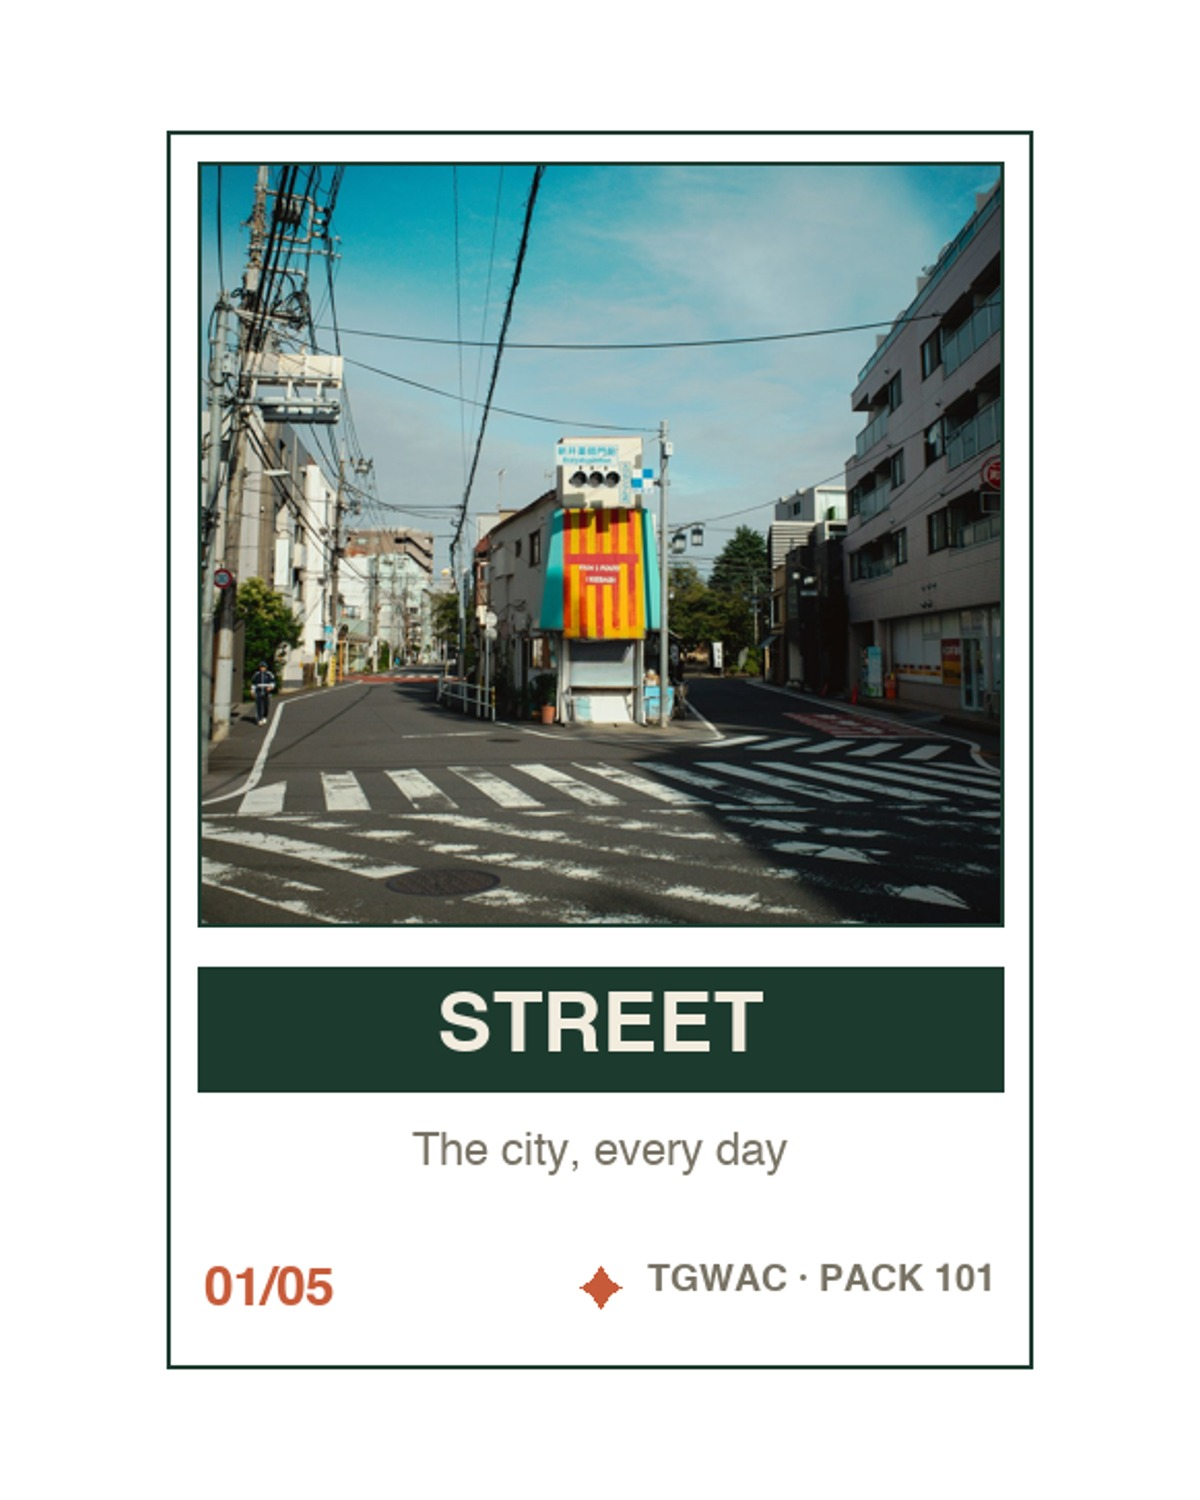
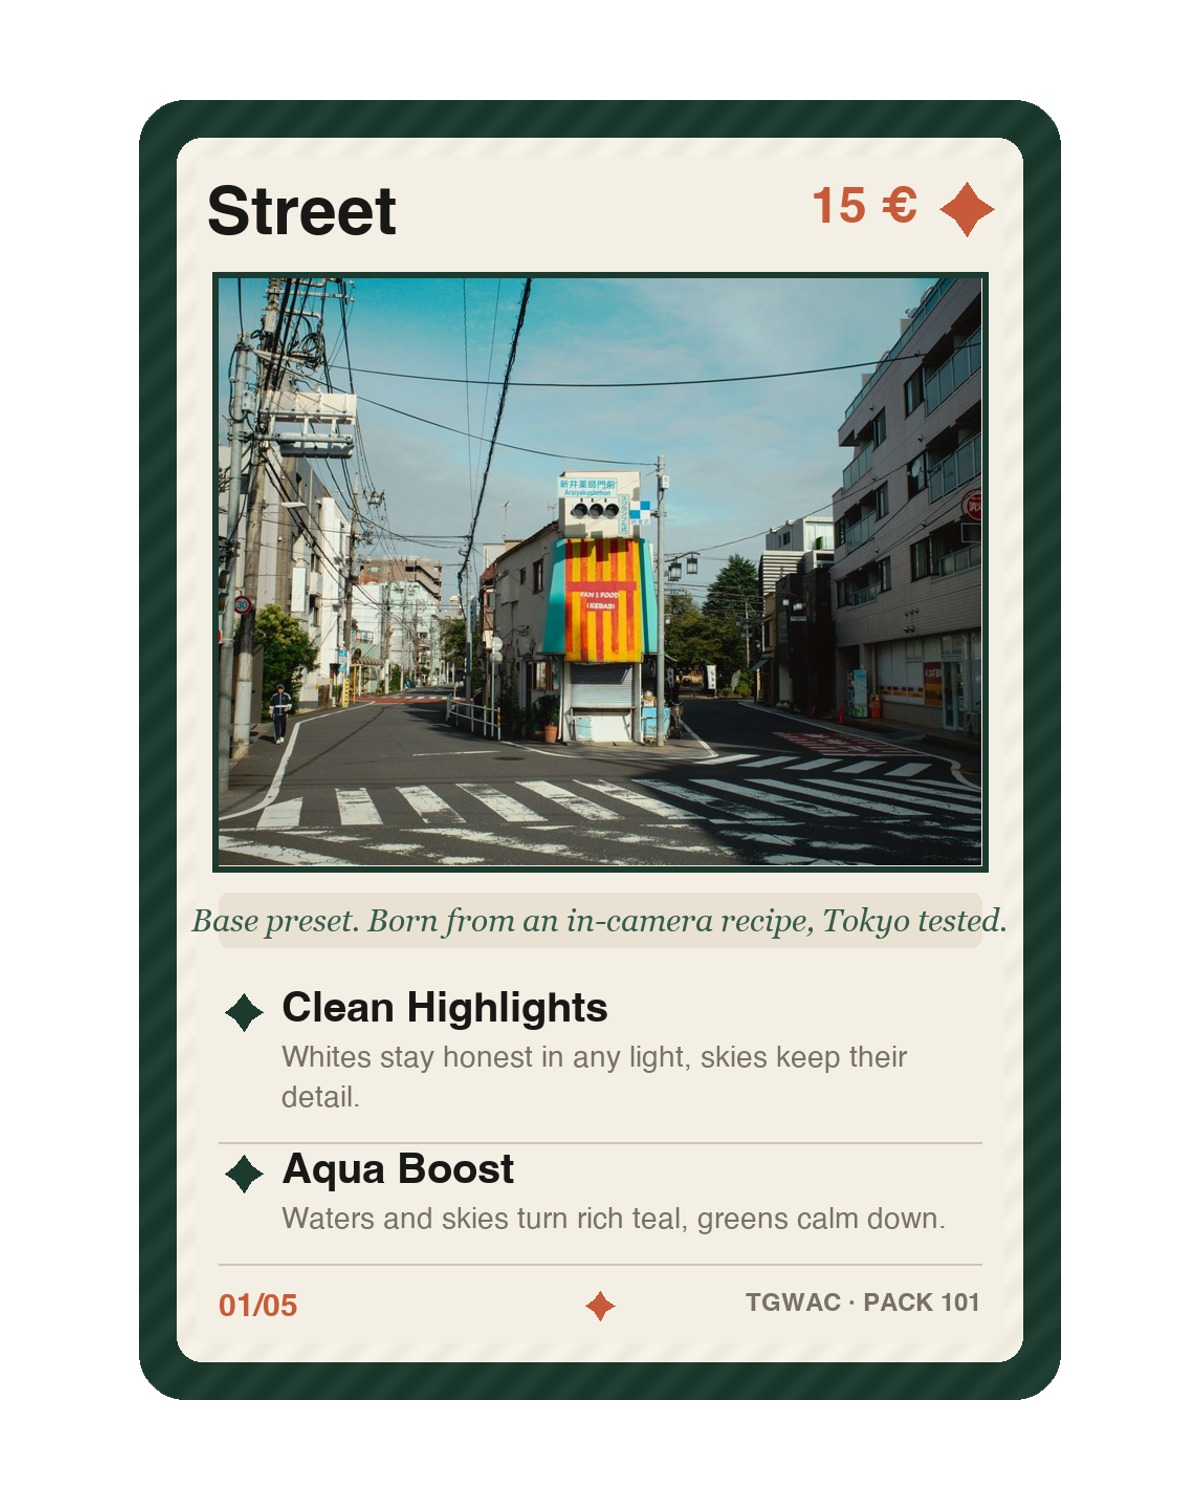
Store: cartes facon Pokemon, sliders 4 colonnes, licence usage perso
- Generateur tools/cards_pack101.py : cartes avec cadre texture, bandeau
  nom + prix, fenetre photo, ligne flavor, deux attaques, pied rarete
- /store/street.jpg et pack-101-contents.jpg regeneres
- Pack 101 : les 4 sliders tiennent sur une ligne (2 colonnes mobile),
  variante compacte de BeforeAfter (poignee et pastilles reduites)
- Hint avant/apres corrige (brute a gauche, preset a droite)
- Licence passee en usage personnel uniquement (buy notes des 2 fiches)

diff --git a/app/[lang]/store/pack-101/page.tsx b/app/[lang]/store/pack-101/page.tsx
@@ -1,6 +1,6 @@
 import type { Metadata } from "next";
 import Script from "next/script";
-import { Eyebrow, Display, PageHead, Section } from "../../components/editorial";
+import { Eyebrow, Display, PageHead } from "../../components/editorial";
 import { pageMeta } from "@/lib/seo";
 import BeforeAfter from "./BeforeAfter";
 import s from "./presets.module.css";
@@ -35,8 +35,8 @@ const content = {
       "Mon rendu, enfin en presets. Quatre looks construits sur ma vraie recette boîtier, un preset par situation, pour Lightroom desktop et mobile.",
     meta: ["4 presets Lightroom", "Desktop & mobile", PRICE],
     buy: `Acheter le pack · ${PRICE}`,
-    buyNote: "Téléchargement immédiat · guide d’installation FR/EN · licence commerciale incluse",
-    hint: "Glisse la ligne sur chaque photo : à gauche le preset, à droite la photo brute.",
+    buyNote: "Téléchargement immédiat · guide d’installation FR/EN · usage personnel",
+    hint: "Glisse la ligne sur chaque photo : à gauche la photo brute, à droite le preset.",
     before: "Avant",
     outro: "Une question avant d’acheter ?",
     outroCta: "Écris-moi",
@@ -48,8 +48,8 @@ const content = {
       "My look, finally as presets. Four looks built on my actual in-camera recipe, one preset per situation, for Lightroom desktop & mobile.",
     meta: ["4 Lightroom presets", "Desktop & mobile", PRICE],
     buy: `Buy the pack · ${PRICE}`,
-    buyNote: "Instant download · install guide EN/FR · commercial license included",
-    hint: "Drag the line on each photo: preset on the left, straight-out-of-camera on the right.",
+    buyNote: "Instant download · install guide EN/FR · personal use license",
+    hint: "Drag the line on each photo: straight-out-of-camera on the left, preset on the right.",
     before: "Before",
     outro: "A question before buying?",
     outroCta: "Write me",
@@ -109,9 +109,9 @@ export default async function PresetsPage({ params }: Props) {
 
         <div className={s.presetList}>
           {PRESETS.map((p) => (
-            <Section key={p.key}>
+            <div key={p.key}>
               <div className={s.presetHead}>
-                <Display size="m" as="h2">{p.name}</Display>
+                <h2 className={s.presetName}>{p.name}</h2>
                 <span className={s.presetUsage}>{p.usage[lang]}</span>
               </div>
               <BeforeAfter
@@ -119,8 +119,9 @@ export default async function PresetsPage({ params }: Props) {
                 after={`/presets101/${p.key}-after.jpg`}
                 name={p.name}
                 beforeLabel={t.before}
+                compact
               />
-            </Section>
+            </div>
           ))}
         </div>
 

diff --git a/app/[lang]/store/pack-101/presets.module.css b/app/[lang]/store/pack-101/presets.module.css
@@ -29,24 +29,31 @@
 
 .presetList {
   display: grid;
-  gap: 72px;
-  margin-top: 72px;
+  grid-template-columns: repeat(4, minmax(0, 1fr));
+  gap: 24px;
+  margin-top: 56px;
 }
 
 .presetHead {
-  display: flex;
-  align-items: baseline;
-  justify-content: space-between;
-  gap: 16px;
-  margin-bottom: 14px;
+  display: grid;
+  gap: 4px;
+  margin-bottom: 12px;
   border-top: 1px solid var(--line);
-  padding-top: 18px;
+  padding-top: 14px;
+}
+
+.presetName {
+  font-family: var(--font-serif, Georgia), serif;
+  font-size: 22px;
+  font-weight: 400;
+  color: var(--ink);
+  margin: 0;
 }
 
 .presetUsage {
   font-family: var(--font-inter, Inter), system-ui, sans-serif;
   font-size: 11px;
-  letter-spacing: 0.18em;
+  letter-spacing: 0.14em;
   text-transform: uppercase;
   color: var(--stone);
 }
@@ -74,7 +81,17 @@
   }
 
   .presetList {
-    gap: 48px;
-    margin-top: 48px;
+    grid-template-columns: repeat(2, minmax(0, 1fr));
+    gap: 20px;
+    margin-top: 40px;
+  }
+
+  .presetName {
+    font-size: 18px;
+  }
+
+  .presetUsage {
+    font-size: 10px;
+    letter-spacing: 0.1em;
   }
 }

diff --git a/app/[lang]/store/pack-101/BeforeAfter.tsx b/app/[lang]/store/pack-101/BeforeAfter.tsx
@@ -8,11 +8,13 @@ interface Props {
   after: string;
   name: string;
   beforeLabel: string;
+  compact?: boolean;
 }
 
 // Avant/apres dont la ligne suit la souris (ou le doigt) : a gauche de la
-// ligne la photo brute, a droite le preset applique.
-export default function BeforeAfter({ before, after, name, beforeLabel }: Props) {
+// ligne la photo brute, a droite le preset applique. `compact` reduit
+// poignee et pastilles pour les petites vignettes en grille.
+export default function BeforeAfter({ before, after, name, beforeLabel, compact }: Props) {
   const ref = useRef<HTMLDivElement>(null);
   const [pos, setPos] = useState(50);
 
@@ -27,7 +29,7 @@ export default function BeforeAfter({ before, after, name, beforeLabel }: Props)
   return (
     <div
       ref={ref}
-      className={s.wrap}
+      className={compact ? `${s.wrap} ${s.compact}` : s.wrap}
       onPointerMove={(e) => e.pointerType !== 'touch' && move(e.clientX)}
       onTouchMove={(e) => move(e.touches[0].clientX)}
       onTouchStart={(e) => move(e.touches[0].clientX)}

diff --git a/app/[lang]/store/pack-101/BeforeAfter.module.css b/app/[lang]/store/pack-101/BeforeAfter.module.css
@@ -70,3 +70,29 @@
   background: var(--ink);
   color: var(--paper);
 }
+
+/* Variante compacte : vignettes en grille 4 colonnes. */
+.compact .knob {
+  width: 26px;
+  height: 26px;
+}
+
+.compact .knob svg {
+  width: 14px;
+  height: 7px;
+}
+
+.compact .chip {
+  font-size: 8px;
+  letter-spacing: 0.1em;
+  padding: 3px 6px;
+  bottom: 8px;
+}
+
+.compact .chipLeft {
+  left: 8px;
+}
+
+.compact .chipRight {
+  right: 8px;
+}

diff --git a/tools/cards_pack101.py b/tools/cards_pack101.py
@@ -1,0 +1,193 @@
+# Cartes "facon Pokemon" du Pack 101 : cadre vert arrondi, bandeau nom,
+# fenetre d'illustration, ligne Pokedex, deux attaques, pied avec rarete.
+# Produit : /tmp/cards2/card-*.png (880x1240), public/store/street.jpg,
+# et le composite public/store/pack-101-contents.jpg (sachet + eventail).
+import numpy as np
+import os
+from PIL import Image, ImageDraw, ImageFont, ImageFilter
+
+ROOT = os.path.dirname(os.path.dirname(os.path.abspath(__file__)))
+OUT = '/tmp/cards2'
+os.makedirs(OUT, exist_ok=True)
+
+CREAM = (244, 239, 228)
+GREEN = (29, 58, 47)
+GREEN_SOFT = (56, 92, 76)
+TERRA = (199, 91, 57)
+STONE = (120, 114, 100)
+INK = (24, 24, 22)
+GOLDLINE = (205, 198, 182)
+
+HELV = '/System/Library/Fonts/Helvetica.ttc'
+GEO = '/System/Library/Fonts/Supplemental/Georgia Italic.ttf'
+F = lambda s, i=0: ImageFont.truetype(HELV, s, index=i)
+FG = lambda s: ImageFont.truetype(GEO, s)
+
+CW, CH = 880, 1240
+R = 44  # rayon des coins
+
+def rounded_mask(w, h, r):
+    m = Image.new('L', (w, h), 0)
+    ImageDraw.Draw(m).rounded_rectangle([0, 0, w-1, h-1], radius=r, fill=255)
+    return m
+
+def wrap(d, x, y, text, font, fill, maxw, lh):
+    words = text.split(' ')
+    line = ''
+    for w_ in words:
+        t = (line + ' ' + w_).strip()
+        if d.textlength(t, font=font) > maxw and line:
+            d.text((x, y), line, font=font, fill=fill); y += lh; line = w_
+        else:
+            line = t
+    if line:
+        d.text((x, y), line, font=font, fill=fill); y += lh
+    return y
+
+def diamond(d, cx, cy, r1, fill):
+    r2 = r1 * 0.4
+    d.polygon([(cx, cy-r1), (cx+r2, cy-r2), (cx+r1, cy), (cx+r2, cy+r2),
+               (cx, cy+r1), (cx-r2, cy+r2), (cx-r1, cy), (cx-r2, cy-r2)], fill=fill)
+
+def texture_border(card):
+    # leger grain raye dans le cadre vert, facon holo discret
+    a = np.array(card).astype(float)
+    h, w = a.shape[:2]
+    yy, xx = np.mgrid[0:h, 0:w]
+    tex = 5 * np.sin((xx + yy) / 7.0)
+    mask = np.zeros((h, w), bool)
+    B = 36
+    mask[:B+18, :] = True; mask[-(B+18):, :] = True
+    mask[:, :B+18] = True; mask[:, -(B+18):] = True
+    a[mask] = np.clip(a[mask] + tex[mask][:, None], 0, 255)
+    return Image.fromarray(a.astype(np.uint8))
+
+def make_card(img_path, name, flavor, atk1, atk2, num, price):
+    card = Image.new('RGB', (CW, CH), GREEN)
+    d = ImageDraw.Draw(card)
+    # interieur creme
+    d.rounded_rectangle([36, 36, CW-37, CH-37], radius=24, fill=CREAM)
+    # bandeau nom
+    d.text((64, 78), name, font=F(64, 1), fill=INK)
+    # pastille prix facon PV
+    if price:
+        d.text((CW-136, 104), price, font=F(48, 1), fill=TERRA, anchor='rm')
+    diamond(d, CW-90, 104, 26, TERRA)
+    # fenetre d'illustration
+    ix, iy, iw, ih = 76, 170, CW-152, 560
+    im = Image.open(img_path).convert('RGB')
+    r_ = im.width / im.height
+    if r_ > iw / ih:
+        nw = int(im.height * iw / ih); im = im.crop(((im.width-nw)//2, 0, (im.width+nw)//2, im.height))
+    else:
+        nh = int(im.width * ih / iw); im = im.crop((0, (im.height-nh)//2, im.width, (im.height-nh)//2+nh))
+    card.paste(im.resize((iw, ih)), (ix, iy))
+    d.rectangle([ix-6, iy-6, ix+iw+6, iy+ih+6], outline=GREEN, width=6)
+    # ligne pokedex
+    d.rounded_rectangle([76, iy+ih+26, CW-76, iy+ih+78], radius=10, fill=(233, 226, 211))
+    d.text((CW//2, iy+ih+52), flavor, font=FG(30), fill=GREEN_SOFT, anchor='mm')
+    # attaques
+    y = iy + ih + 118
+    for title, desc in (atk1, atk2):
+        diamond(d, 100, y+22, 18, GREEN)
+        d.text((136, y), title, font=F(40, 1), fill=INK)
+        y = wrap(d, 136, y+52, desc, F(28), STONE, CW-220, 38) + 26
+        d.line([76, y-8, CW-76, y-8], fill=GOLDLINE, width=2)
+    # pied
+    d.text((76, CH-104), num, font=F(30, 1), fill=TERRA)
+    diamond(d, CW//2, CH-90, 14, TERRA)
+    d.text((CW-76, CH-104), 'TGWAC · PACK 101', font=F(24, 1), fill=STONE, anchor='ra')
+    card = texture_border(card)
+    # coins arrondis
+    out = Image.new('RGBA', (CW, CH), (0, 0, 0, 0))
+    out.paste(card, (0, 0))
+    out.putalpha(rounded_mask(CW, CH, R))
+    return out
+
+def make_bonus():
+    card = Image.new('RGB', (CW, CH), TERRA)
+    d = ImageDraw.Draw(card)
+    d.rounded_rectangle([36, 36, CW-37, CH-37], radius=24, outline=CREAM, width=4)
+    d.text((CW//2, 150), 'ALSO INSIDE', font=F(40, 1), fill=(255, 225, 210), anchor='mm')
+    y = 300
+    for title, sub in (('The Guide', '4-PAGE PDF · EN + FR'),
+                       ('Mobile DNG', 'FREE LIGHTROOM APP · NO SUB'),
+                       ('License', 'PERSONAL USE')):
+        d.text((CW//2, y), title, font=FG(96), fill=CREAM, anchor='mm')
+        d.text((CW//2, y+78), sub, font=F(30, 1), fill=(255, 225, 210), anchor='mm')
+        if title != 'License':
+            d.line([150, y+150, CW-150, y+150], fill=(255, 225, 210), width=2)
+        y += 240
+    d.text((76, CH-104), '05/05', font=F(30, 1), fill=CREAM)
+    d.text((CW-76, CH-104), 'TGWAC · PACK 101', font=F(24, 1), fill=(255, 225, 210), anchor='ra')
+    out = Image.new('RGBA', (CW, CH), (0, 0, 0, 0))
+    out.paste(card, (0, 0))
+    out.putalpha(rounded_mask(CW, CH, R))
+    return out
+
+P = lambda n: os.path.join(ROOT, f'public/presets101/{n}-after.jpg')
+CARDS = [
+    make_card(P('street'), 'Street', 'Base preset. Born from an in-camera recipe, Tokyo tested.',
+              ('Clean Highlights', 'Whites stay honest in any light, skies keep their detail.'),
+              ('Aqua Boost', 'Waters and skies turn rich teal, greens calm down.'),
+              '01/05', '15 €'),
+    make_card(P('travel'), 'Travel', 'Golden light type. Evolves any trip into a postcard.',
+              ('Golden Hour', 'Warms places and skin softly, never burns.'),
+              ('Soft Shadows', 'Opens the dark parts, keeps the mood intact.'),
+              '02/05', ''),
+    make_card(P('market'), 'Market', 'Bold color type. Thrives in busy, colorful places.',
+              ('Color Pop', 'Saturated colors that stay honest, grays stay gray.'),
+              ('Crisp Light', 'A cool clean bite for crowded scenes.'),
+              '03/05', ''),
+    make_card(P('neon'), 'Neon', 'Night type. Only comes out after dark.',
+              ('Night Glow', 'Signs bloom and glow, blacks stay deep.'),
+              ('Warm Neon', 'The city after dark, done warm, never blue.'),
+              '04/05', ''),
+    make_bonus(),
+]
+for i, c in enumerate(CARDS):
+    c.save(f'{OUT}/card{i}.png')
+print('5 cartes ok')
+
+# carte Street du store, sur blanc pur
+W, H = 1200, 1500
+canvas = Image.new('RGB', (W, H), (255, 255, 255))
+ch2 = 1300; cw2 = int(CW * ch2 / CH)
+street = CARDS[0].resize((cw2, ch2))
+canvas.paste(street, ((W - cw2) // 2, (H - ch2) // 2), street)
+canvas.save(os.path.join(ROOT, 'public/store/street.jpg'), quality=92)
+print('store street ok')
+
+# composite What you get : sachet + eventail
+W2, H2 = 1600, 2000
+PAPER = (235, 229, 215)
+bg = Image.new('RGB', (W2, H2), PAPER)
+arr = np.array(bg).astype(float)
+rng = np.random.default_rng(5)
+arr += rng.normal(0, 2, (H2, W2, 1))
+arr -= np.linspace(0, 1, H2)[:, None, None] * 10
+bg = Image.fromarray(np.clip(arr, 0, 255).astype('uint8')).convert('RGBA')
+d = ImageDraw.Draw(bg)
+d.text((80, 90), 'WHAT YOU GET', font=F(44, 1), fill=GREEN)
+d.rectangle([80, 160, 300, 168], fill=TERRA)
+
+def paste_rot(base, im, center, angle):
+    im = im.convert('RGBA')
+    rot = im.rotate(angle, expand=True, resample=Image.BICUBIC)
+    alpha = rot.split()[3].point(lambda v: int(v * 0.45))
+    shadow = Image.new('RGBA', rot.size, (20, 15, 10, 255)); shadow.putalpha(alpha)
+    shadow = shadow.filter(ImageFilter.GaussianBlur(14))
+    base.alpha_composite(shadow, (center[0]-rot.width//2+12, center[1]-rot.height//2+18))
+    base.alpha_composite(rot, (center[0]-rot.width//2, center[1]-rot.height//2))
+
+pack = Image.open(os.path.join(ROOT, 'public/store/pack-101.jpg')).convert('RGBA')
+crop = pack.crop((int(0.16*pack.width), int(0.03*pack.height), int(0.84*pack.width), int(0.97*pack.height)))
+pw = 620; ph = int(pw * crop.height / crop.width)
+paste_rot(bg, crop.resize((pw, ph)), (W2//2, 580), 4)
+
+positions = [(300, 1500, -12), (545, 1445, -6), (800, 1425, 0), (1055, 1445, 6), (1300, 1500, 12)]
+for (x, y, ang), i in zip(positions, range(5)):
+    cc = CARDS[i].resize((int(CW*0.42), int(CH*0.42)))
+    paste_rot(bg, cc, (x, y), ang)
+bg.convert('RGB').save(os.path.join(ROOT, 'public/store/pack-101-contents.jpg'), quality=90)
+print('composite ok')
